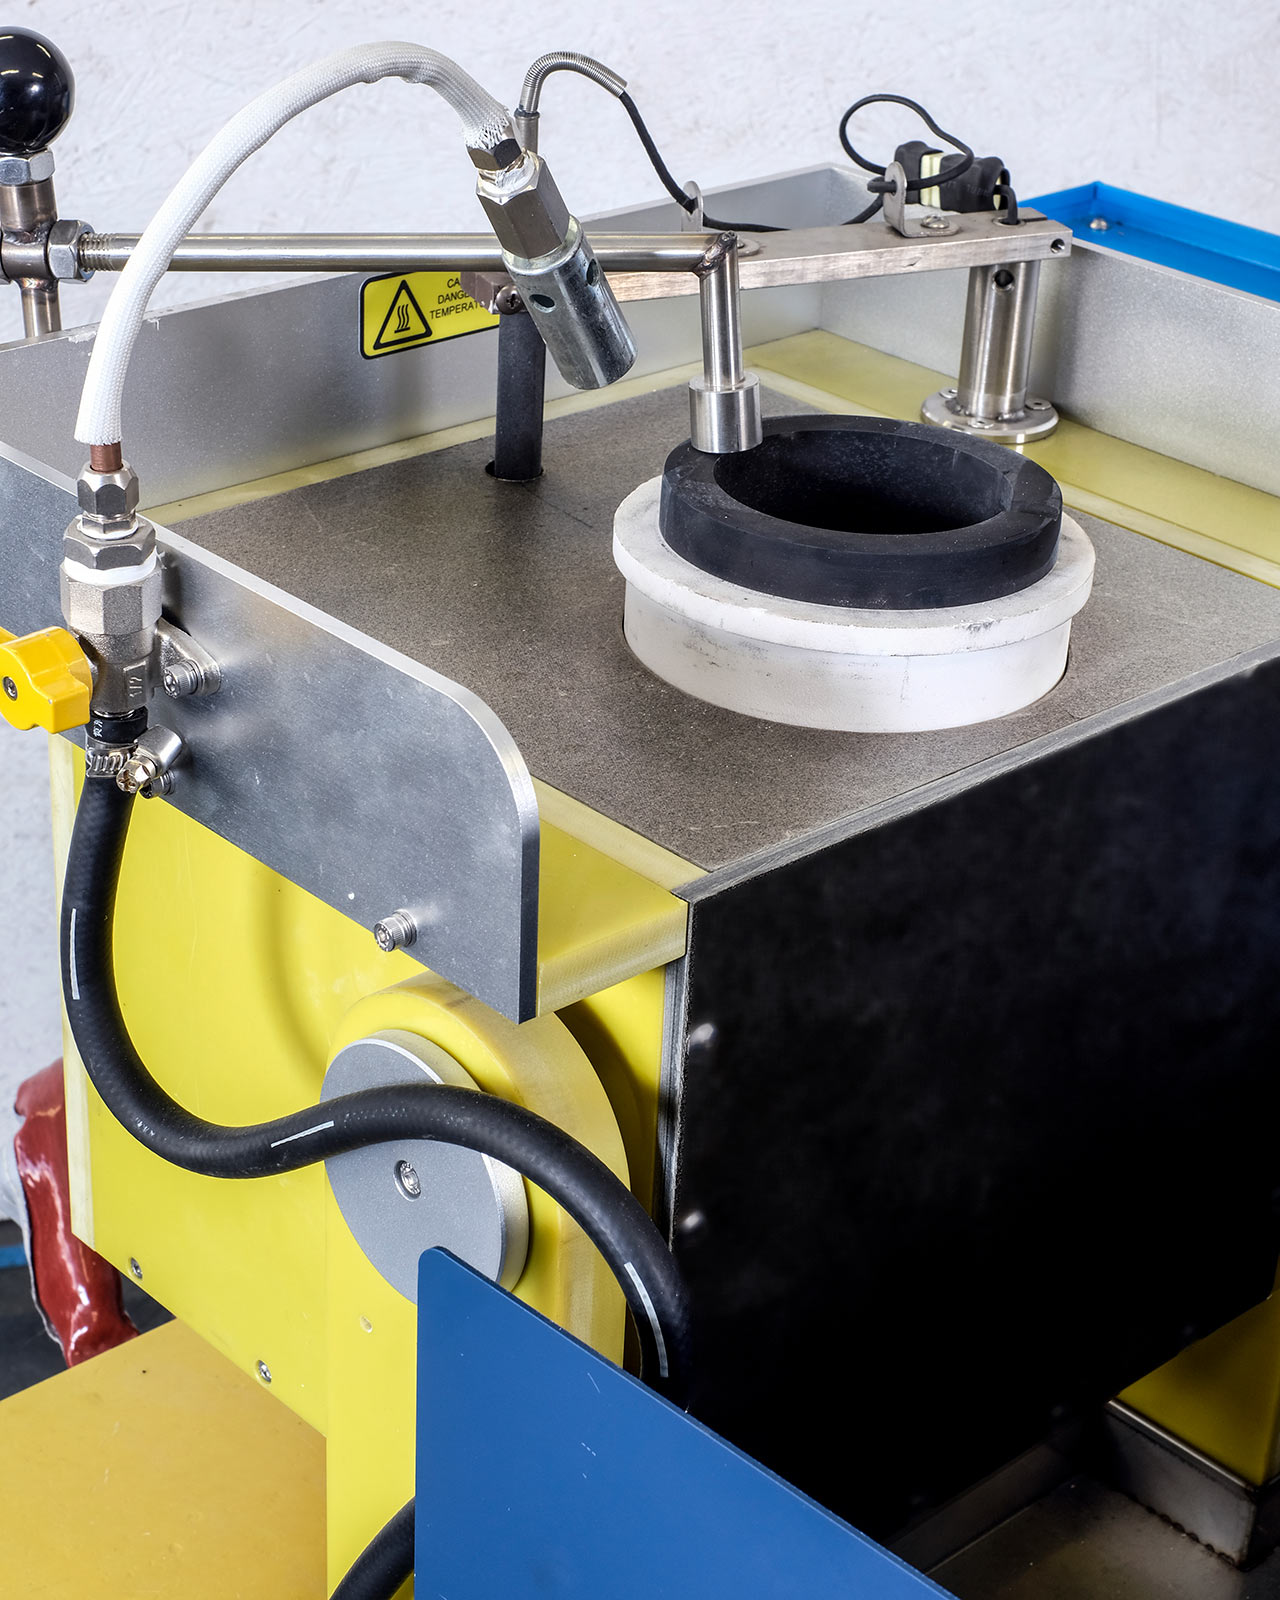
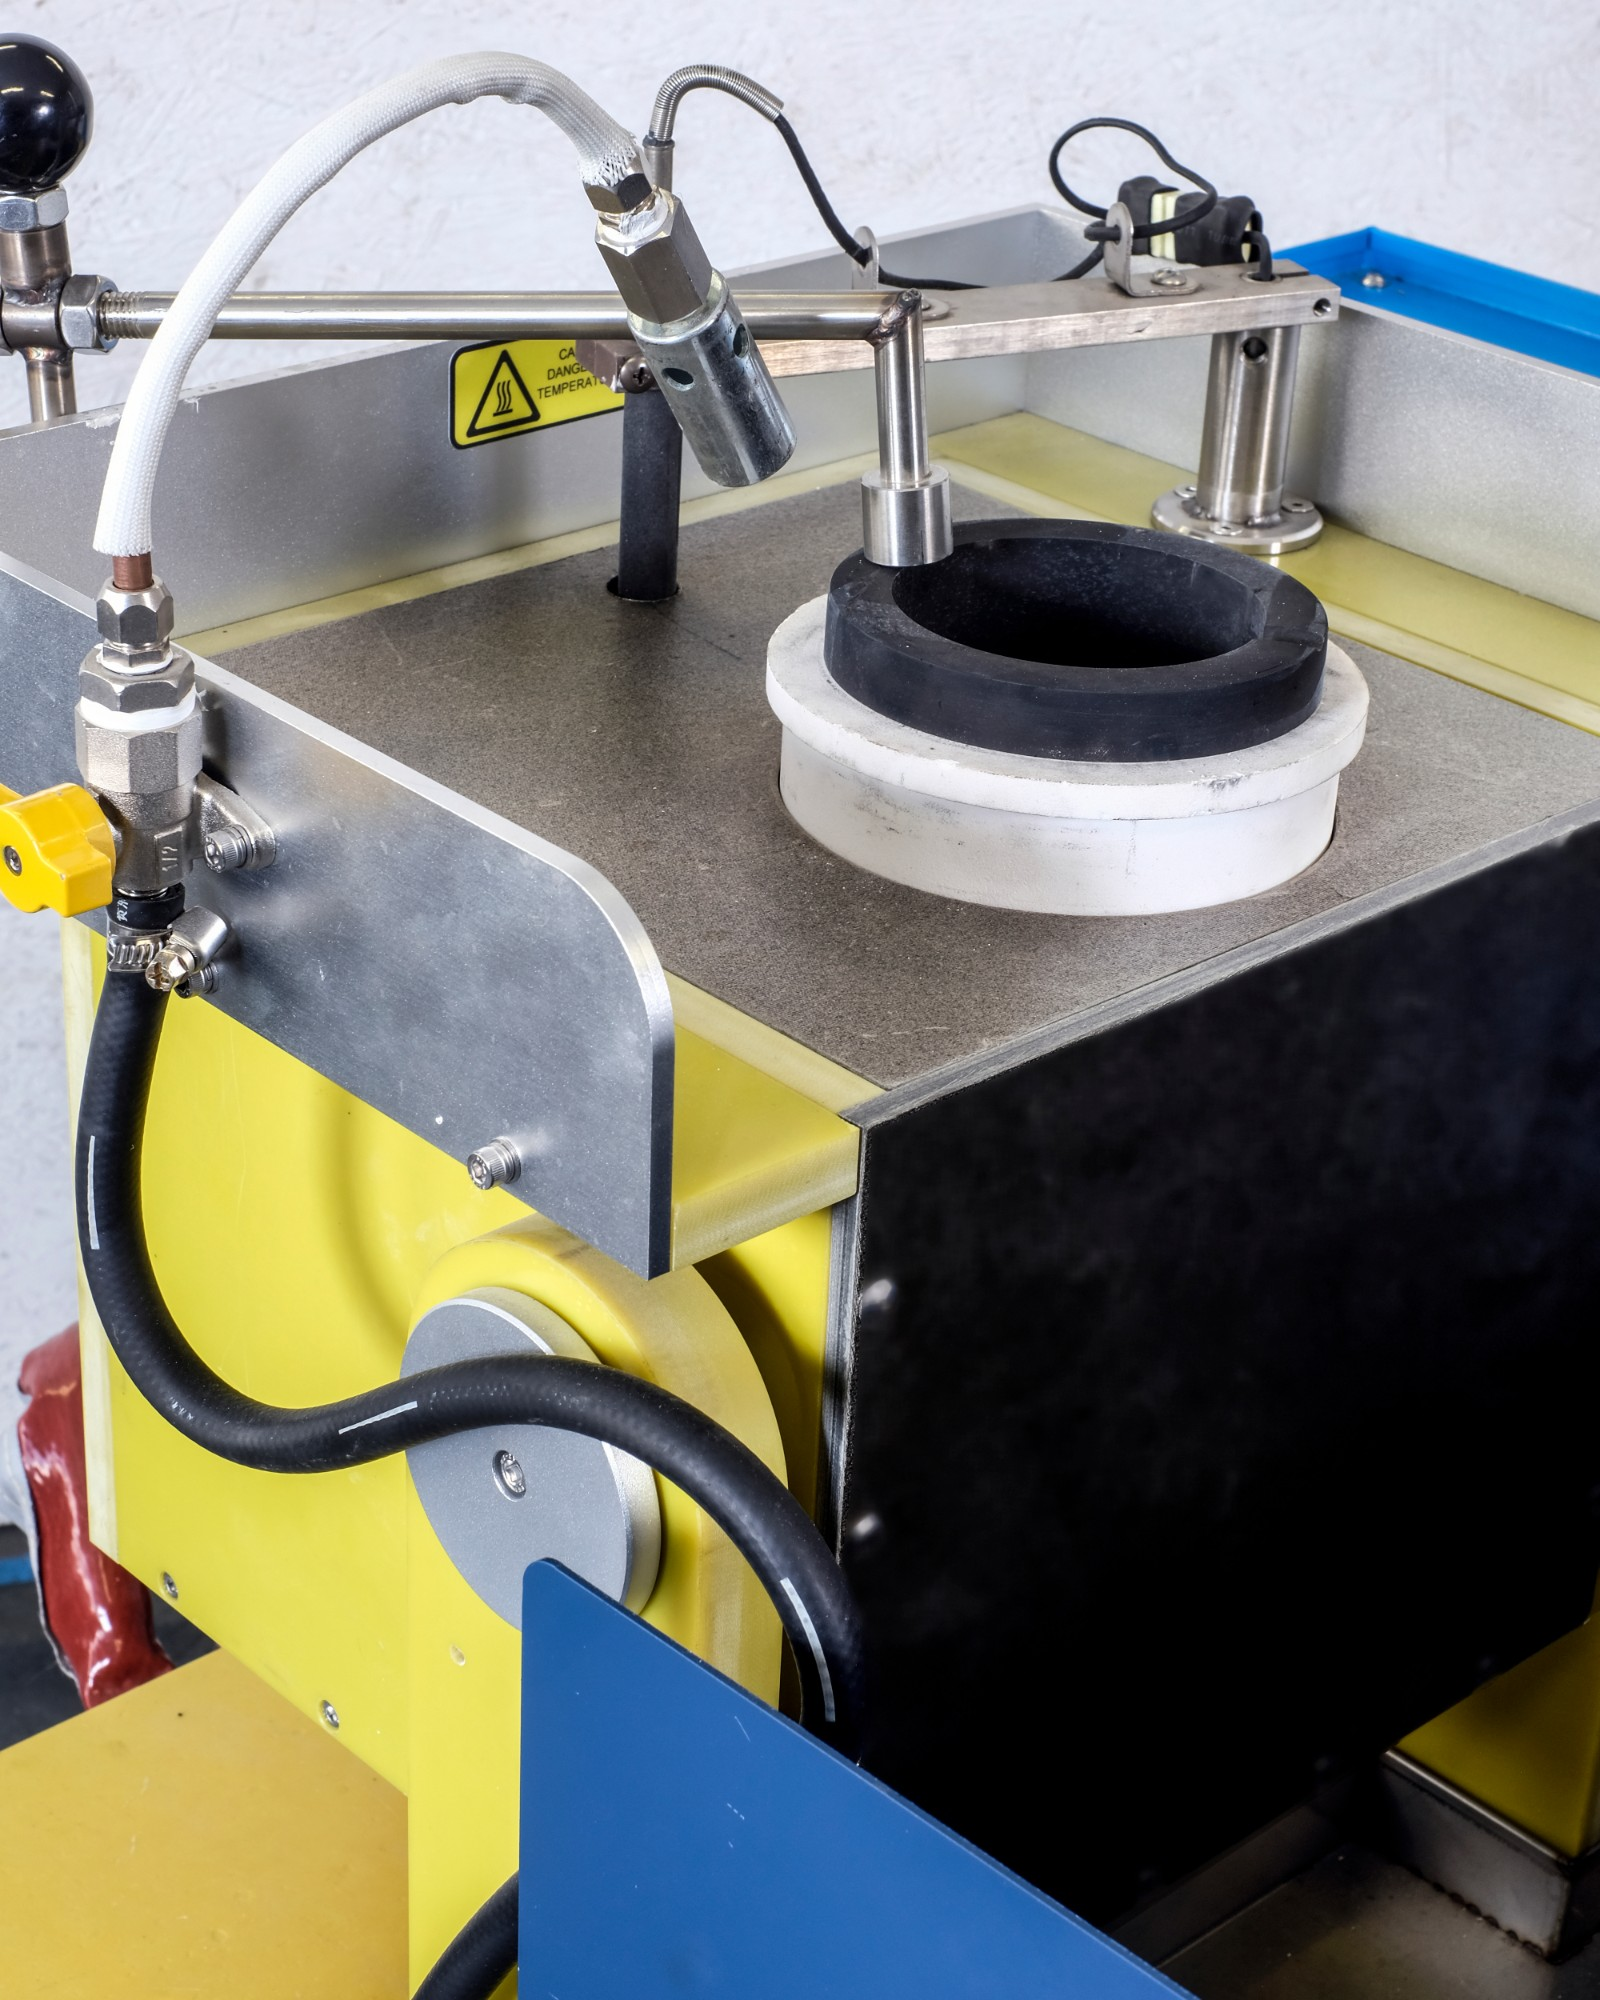
feat(images): high-res IT.MT detail, new IT.CWA detail in the gallery
Claude-Session: https://claude.ai/code/session_01EA98WarGrLwRTTLbCQopnh

diff --git a/docs/CHANGES.md b/docs/CHANGES.md
@@ -431,3 +431,12 @@ Cinque foto ricevute, tutte versioni ad alta risoluzione di immagini già presen
 - **IT.MT:** la foto principale (2000×2000) è marginalmente più grande di quella inserita prima (macchina 1037×1801 px contro 1010×1755): sostituita. La foto con l'operatore (2000×1333) è più piccola di quella già in uso (macchina 1630×1333 contro 1926×1575): **non sostituita**.
 - Lighthouse: home mobile 99 (tre misure), scheda IT.SM mobile 97, catalogo mobile 95.
 - Ancora a bassa risoluzione: IT.GT (foto con carrello e lingotti), IT.GMB, IT.FM, e due miniature di IT.GMS (131×361 e 370×556 px).
+
+## Dettagli IT.MT e IT.CWA
+
+Cinque foto ricevute:
+- **IT.MT:** dettaglio della parte superiore con il crogiolo (1600×2000) sostituisce quello a 1280×1600.
+- **IT.CWA:** dettaglio della testa di trascinamento con pulegge, due motori, etichette "Line A / Line B" e la bobina di filo di rame (1600×2000): **foto nuova**, aggiunta come terza immagine della galleria. Per aggiungerla ho esteso l'elenco `images` di `content/it/products/it-cwa.json` e `content/en/products/it-cwa.json` (file di contenuto). Attenzione: rieseguendo `scripts/extract-content.py` dal sito originale questa riga va rimessa.
+- **Non usate perché già presenti a risoluzione uguale o maggiore:** IT.CWA intera (macchina 1111×1159 px contro 1773×1849 della foto in uso) e due duplicati ridimensionati a 1920 px (dettaglio dei rulli di IT.CC, vaschetta di rame di IT.AF).
+
+Anomalie nei testi originali (non modificati, come da regola di non riscrivere i contenuti estratti): la descrizione di IT.CWA inizia con "ItalTherm, il Forno continuo per ricottura filo ItalTherm Un sistema…" (manca un punto e il nome è ripetuto); la descrizione di IT.GMS inizia in maiuscolo ("SISTEMA AUTOMATICO DI FUSIONE DEI GRANI ItalTherm…") e il suo testo è quasi uguale a quello di IT.GMB.
